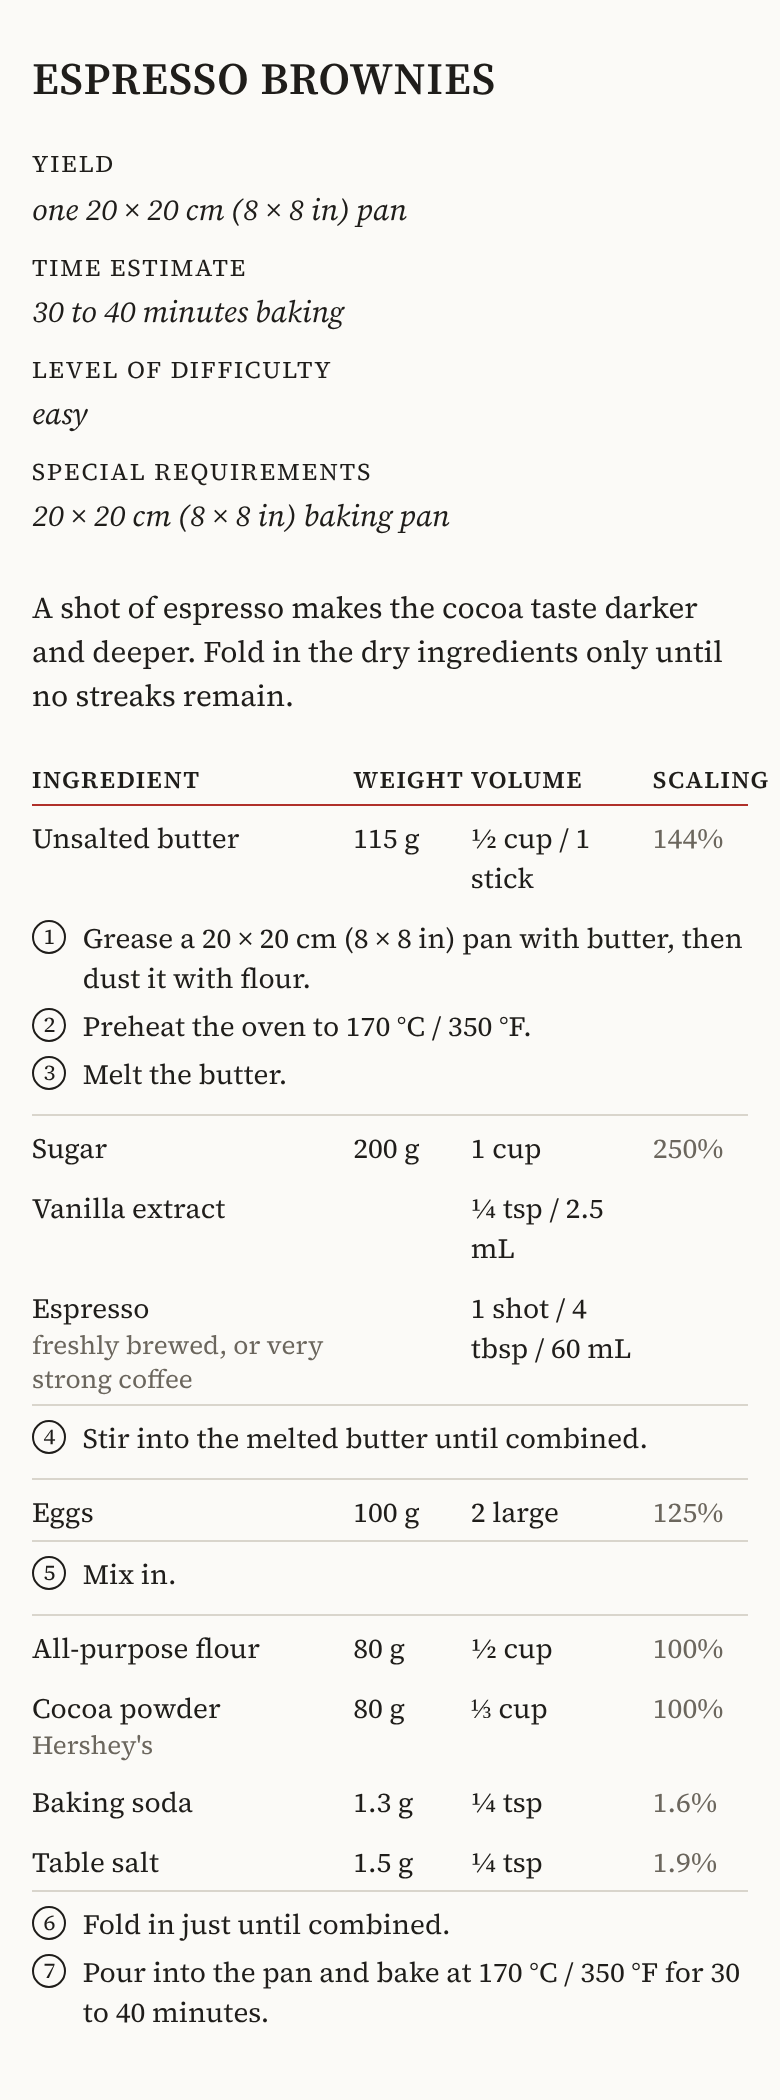
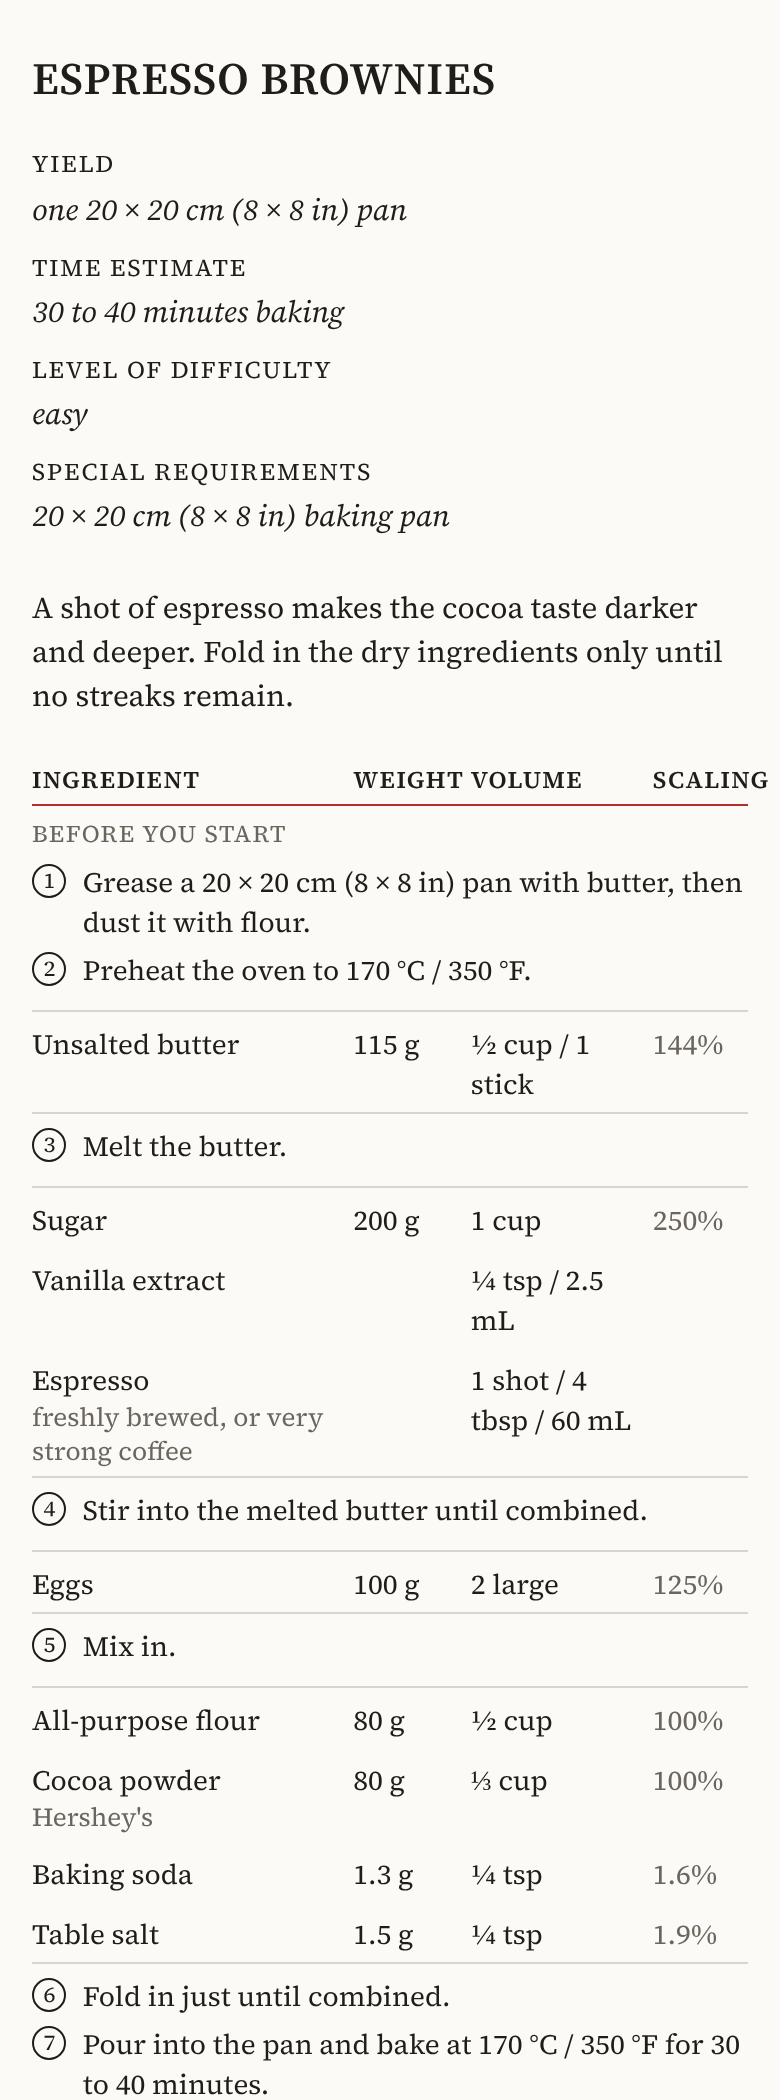
cookbook-recipe: give steps with no ingredient their own "Before you start" group (#8)
Preheating or lining the tin used to sit beside the first ingredient, as
if it used it. They now go in a tbody.setup at the top with a label in
the ingredient columns, like the algorithmic layout's full-width top
rows. Skeleton, CSS (desktop, phone), example and screenshots updated;
bump to 0.7.0.

Claude-Session: https://claude.ai/code/session_01CNA9gBAQs4MGXz69oRLK8C

diff --git a/examples/espresso-brownies-cookbook.html b/examples/espresso-brownies-cookbook.html
@@ -26,6 +26,7 @@ td.ing{width:24%}td.w,td.v,td.s{white-space:nowrap}
 td.s{color:var(--muted)}
 .prep{display:block;font-size:13px;color:var(--muted)}
 td.proc{width:46%}
+td.setup{font-size:12px;text-transform:uppercase;letter-spacing:.06em;color:var(--muted)}
 td.proc ol{margin:0;padding:0;list-style:none}
 td.proc li{display:flex;gap:8px}td.proc li+li{margin-top:4px}
 .n{flex:none;width:1.4em;height:1.4em;margin-top:.05em;border:1px solid currentColor;border-radius:50%;font-size:11px;line-height:1.4em;text-align:center}
@@ -38,6 +39,7 @@ td.proc li{display:flex;gap:8px}td.proc li+li{margin-top:4px}
   tr{display:contents}th:last-child{display:none}
   td.ing,td.proc{width:auto}td.w,td.v{white-space:normal}
   td.proc{grid-column:1/-1;order:1;padding:6px 0 10px}
+  td.setup{grid-column:1/-1;padding-bottom:0}
 }
 /* print: one landscape A4 sheet, always light */
 @page{size:A4 landscape;margin:0}
@@ -79,11 +81,16 @@ td.proc li{display:flex;gap:8px}td.proc li+li{margin-top:4px}
 <div class="intro"><p>A shot of espresso makes the cocoa taste darker and deeper. Fold in the dry ingredients only until no streaks remain.</p></div>
 <table>
 <thead><tr><th>Ingredient</th><th>Weight</th><th>Volume</th><th>Scaling</th><th>Procedure</th></tr></thead>
-<tbody>
-<tr><td class="ing">Unsalted butter</td><td class="w">115 g</td><td class="v">½ cup / 1 stick</td><td class="s">144%</td>
+<tbody class="setup">
+<tr><td class="setup" colspan="4">Before you start</td>
 <td class="proc"><ol>
   <li><span class="n">1</span><span>Grease a 20 × 20 cm (8 × 8 in) pan with butter, then dust it with flour.</span></li>
   <li><span class="n">2</span><span>Preheat the oven to 170 °C / 350 °F.</span></li>
+</ol></td></tr>
+</tbody>
+<tbody>
+<tr><td class="ing">Unsalted butter</td><td class="w">115 g</td><td class="v">½ cup / 1 stick</td><td class="s">144%</td>
+<td class="proc"><ol>
   <li><span class="n">3</span><span>Melt the butter.</span></li>
 </ol></td></tr>
 </tbody>

diff --git a/skills/cookbook-recipe/SKILL.md b/skills/cookbook-recipe/SKILL.md
@@ -28,7 +28,8 @@ Follow the shared rules in `../_shared/recipe-rules.md` (or `recipe-rules.md` ne
 Columns: **Ingredient** (name, prep note in `<span class="prep">` underneath, such as "peeled" or "cubed, room temperature"), **Weight**, **Volume**, **Scaling**, **Procedure**.
 
 - **Groups.** One `<tbody>` per group of ingredients that enter together. The first row of the group carries `<td class="proc" rowspan="N">`, N = rows in the group, holding the steps that use them.
-- **Steps.** Numbered once across the whole recipe, `<li><span class="n">3</span><span>text</span></li>`. Steps before any ingredient (preheat, set up a water bath) go in the first group. Steps after the last ingredient (bake, cool, serve) go in the last group.
+- **Steps.** Numbered once across the whole recipe, `<li><span class="n">3</span><span>text</span></li>`. Steps after the last ingredient (bake, cool, serve) go in the last group.
+- **Steps with no ingredient.** Steps that come before any ingredient is used (preheat, line or grease the tin, set up a water bath) never sit beside the first ingredient, which would make them look like they use it. They get their own group at the top, `<tbody class="setup">`, with one row: `<td class="setup" colspan="4">Before you start</td>` and then the procedure cell. Numbering starts there. A no-ingredient step in the middle of the method (preheat while the dough chills) stays where it happens.
 - **Repeats.** If an ingredient is used again later (water to blanch, then water to cook), give it a new row in the later group.
 - **Weight** in metric (g, kg), the primary quantity when the source gives it. Use "to taste" or "as needed" when the source does.
 - **Volume** in cups and spoons, with mL for liquids, or a count (`about 4 potatoes`, `2 large`).
@@ -76,6 +77,7 @@ td.ing{width:24%}td.w,td.v,td.s{white-space:nowrap}
 td.s{color:var(--muted)}
 .prep{display:block;font-size:13px;color:var(--muted)}
 td.proc{width:46%}
+td.setup{font-size:12px;text-transform:uppercase;letter-spacing:.06em;color:var(--muted)}
 td.proc ol{margin:0;padding:0;list-style:none}
 td.proc li{display:flex;gap:8px}td.proc li+li{margin-top:4px}
 .n{flex:none;width:1.4em;height:1.4em;margin-top:.05em;border:1px solid currentColor;border-radius:50%;font-size:11px;line-height:1.4em;text-align:center}
@@ -88,6 +90,7 @@ td.proc li{display:flex;gap:8px}td.proc li+li{margin-top:4px}
   tr{display:contents}th:last-child{display:none}
   td.ing,td.proc{width:auto}td.w,td.v{white-space:normal}
   td.proc{grid-column:1/-1;order:1;padding:6px 0 10px}
+  td.setup{grid-column:1/-1;padding-bottom:0}
 }
 /* print: one landscape A4 sheet, always light */
 @page{size:A4 landscape;margin:0}
@@ -132,11 +135,17 @@ td.proc li{display:flex;gap:8px}td.proc li+li{margin-top:4px}
 <div class="intro"><p>What makes the dish work. The key technique, in a sentence.</p></div>
 <table>
 <thead><tr><th>Ingredient</th><th>Weight</th><th>Volume</th><th>Scaling</th><th>Procedure</th></tr></thead>
+<!-- steps before any ingredient (preheat, line the tin): their own group, only when there are any -->
+<tbody class="setup">
+<tr><td class="setup" colspan="4">Before you start</td>
+<td class="proc"><ol>
+  <li><span class="n">1</span><span>Step with no ingredients, such as preheating.</span></li>
+</ol></td></tr>
+</tbody>
 <!-- one tbody per group; rowspan = rows in the group -->
 <tbody>
 <tr><td class="ing">Main ingredient<span class="prep">peeled</span></td><td class="w">500 g</td><td class="v">about 4</td><td class="s">100%</td>
 <td class="proc" rowspan="2"><ol>
-  <li><span class="n">1</span><span>Step with no ingredients, such as preheating.</span></li>
   <li><span class="n">2</span><span>Step using this group.<span class="tip">Why, or a visual cue.</span></span></li>
 </ol></td></tr>
 <tr><td class="ing">Water</td><td class="w">1 kg</td><td class="v">1 L / 4¼ cups</td><td class="s">200%</td></tr>
